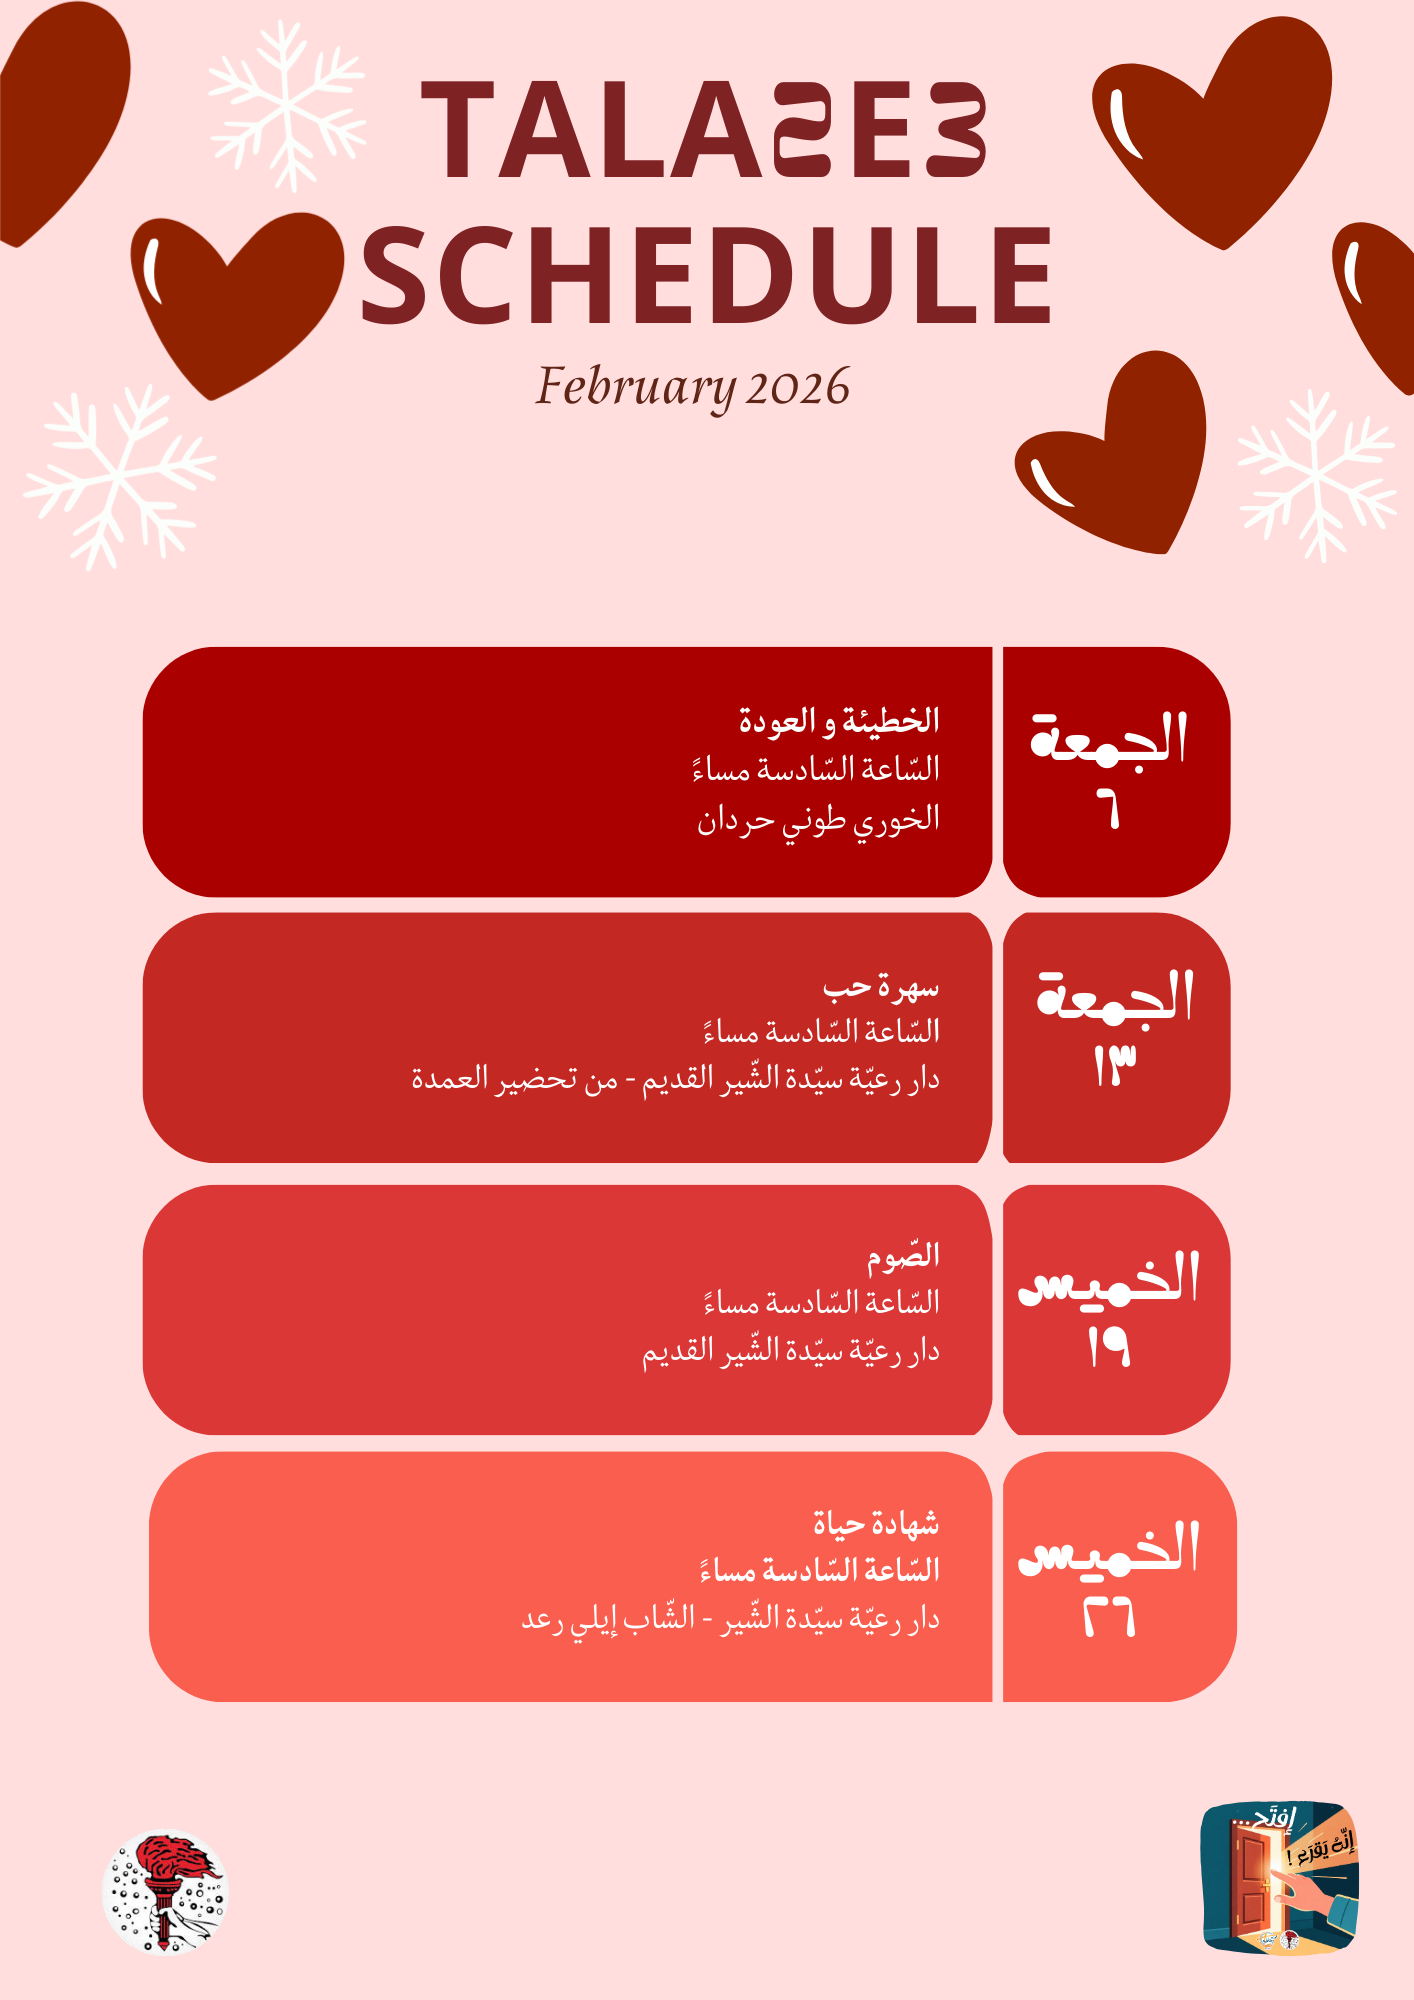
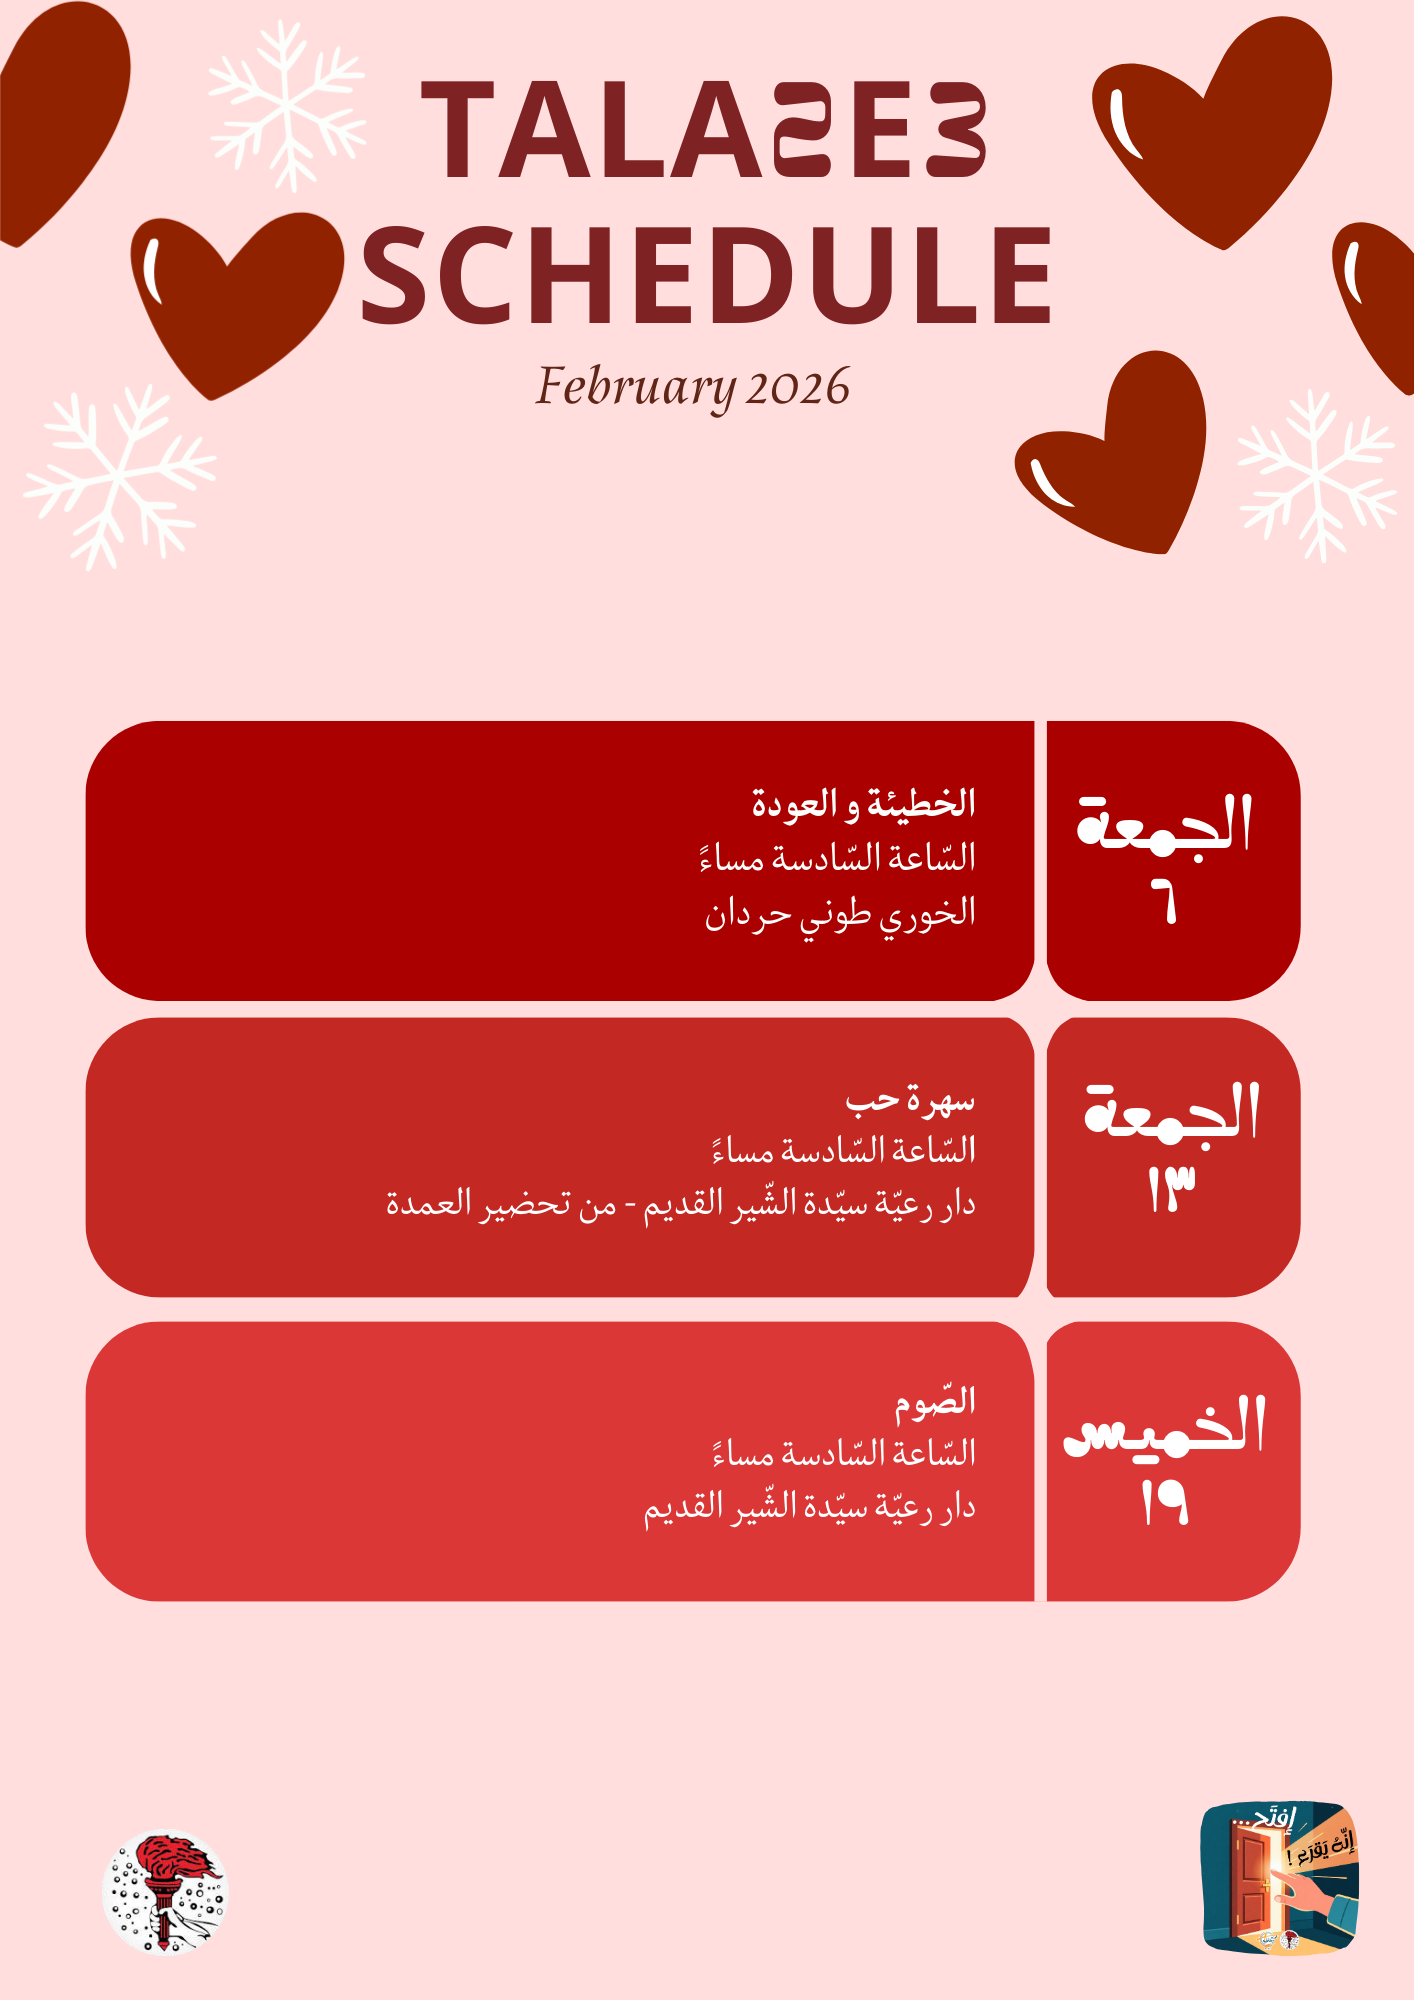
Update message

Changed region(s): [[0.0622, 0.31, 0.9335, 0.868]]

diff --git a/activities.html b/activities.html
@@ -26,6 +26,7 @@
     </ul>
 </nav>
 
+<!--Past activities-->
 <section class="section" id="activities">
     <div class="section-title">نشاطات سابقة</div>
     <div class="gallery">
@@ -47,7 +48,7 @@
     </div>
 </section>
 
-<!-- MONTHLY ACTIVITIES -->
+<!-- October 2025 -->
 <section class="section">
     <div class="section-title">تشرين الأوّل ٢٠٢٥</div>
     <div class="gallery">
@@ -69,6 +70,7 @@
     </div>
 </section>
 
+<!--November 2025-->
 <section class="section">
     <div class="section-title">تشرين الثّاني ٢٠٢٥</div>
     <div class="gallery">
@@ -84,6 +86,7 @@
     </div>
 </section>
 
+<!--December 2025-->
 <section class="section">
     <div class="section-title">كانون الأوّل ٢٠٢٥</div>
     <div class="gallery">
@@ -102,6 +105,7 @@
     </div>
 </section>
 
+<!--January 2026-->
 <section class="section">
     <div class="section-title">كانون الثّاني ٢٠٢٦</div>
     <div class="gallery">
@@ -117,6 +121,7 @@
     </div>
 </section>
 
+<!--February 2026-->
 <section class="section">
     <div class="section-title">شباط ٢٠٢٦</div>
     <div class="gallery">
@@ -138,13 +143,14 @@
     </div>
 </section>
 
+<!--Mars 2026-->
 <section class="section">
     <div class="section-title">آذار ٢٠٢٦</div>
     <div class="gallery">
-       <div class="card"><!--<img src="schedulemar26.png" alt="">-->
-            <h3>برنامج الشّهر قريبًا جدًّا!!</h3>
+        <div class="card"><img src="schedulemar26.png" alt="">
+            <h3>برنامج الشّهر</h3>
         </div>
-         <!--<div class="card"><img src="meetmar1.jpeg" alt="">
+        <div class="card"><img src="meetmar1.jpeg" alt="">
             <h3>إجتماع عن الخطيئة والعودة</h3>
         </div>
         <div class="card"><img src="meetmar2.jpeg" alt="">
@@ -153,9 +159,6 @@
         <div class="card"><img src="meetmar3.jpeg" alt="">
             <h3>إجتماع عن الصّوم</h3>
         </div>
-        <div class="card"><img src="meetmar4.jpeg" alt="">
-            <h3>شهادة حياة الشّاب إيلي رعد</h3>
-        </div>-->
     </div>
 </section>
 

diff --git a/index.html b/index.html
@@ -133,8 +133,8 @@
     <div class="events-preview">
         <div class="event-item">
             <div class="event-date">
-                <span class="event-day">٢٦</span>
-                <span class="event-month">شباط</span>
+                <span class="event-day">٦</span>
+                <span class="event-month">آذار</span>
             </div>
             <div class="event-details">
                 <h4>إجتماع أسبوعيّ</h4>
